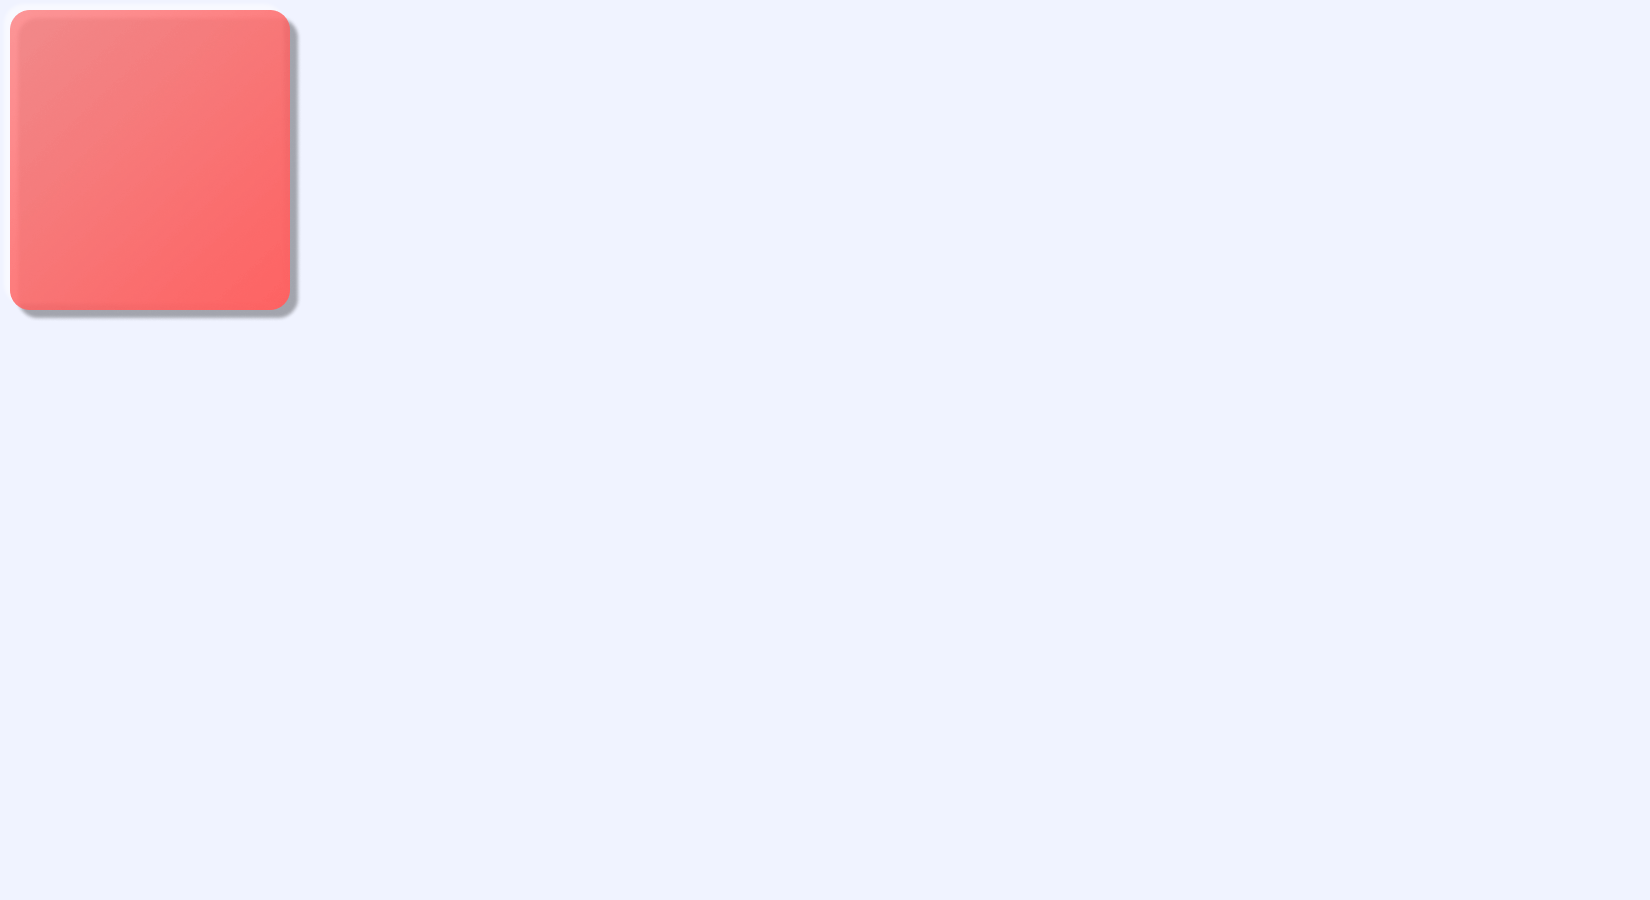
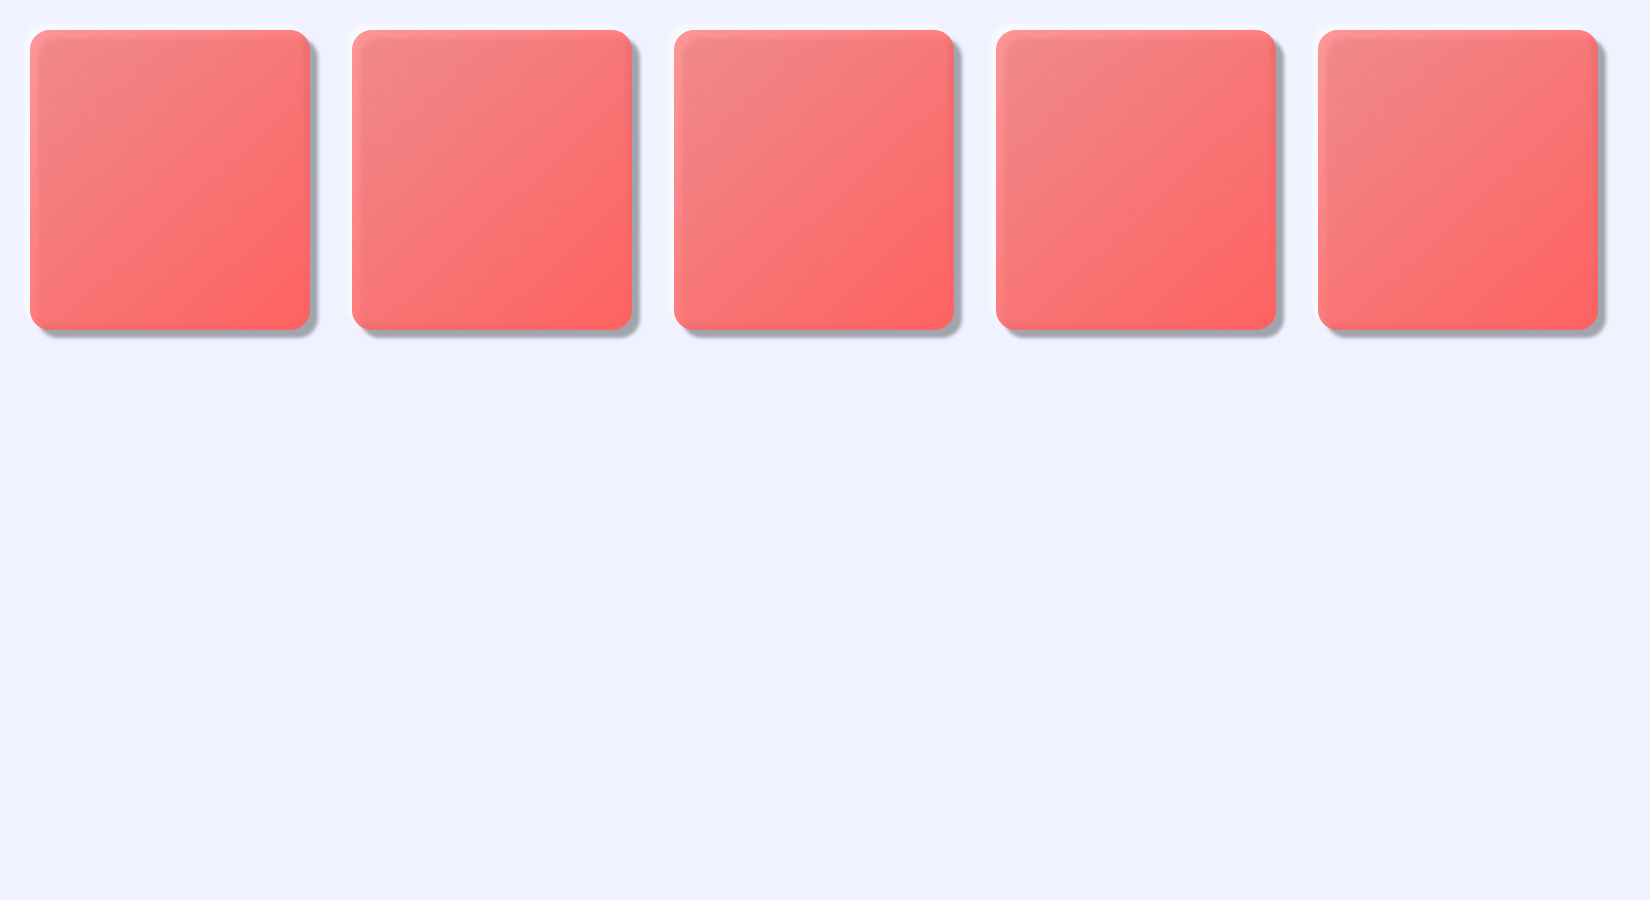
feat: red_cardの配置

Changed region(s): [[0.0, 0.0, 0.9891, 0.4044]]

diff --git a/valo_generator.py b/valo_generator.py
@@ -5,29 +5,30 @@ class ValoGenerator:
     def __init__(self):
         self.base_height = 900
         self.base_width = 1650
+        self.card_height = 0
+        self.card_width = 0
 
     def gen_base(self):
         blank = cv2.imread("assets/blank.png")
         # blank = np.zeros((self.base_height, self.base_width, 4))
         # blank += [236, 240, 243, 255][::-1]
         print(blank.shape)
-        blank = self.paste_red(blank)
 
+        for i in range(5):
+            blank = self.paste_red(blank, i*(self.card_width+20))
+        
         cv2.imwrite("blank.png", blank)
 
-    def paste_red(self, base):
+    def paste_red(self, base, x):
         red = cv2.imread("assets/redCard.png", -1)
 
         h, w = red.shape[:2]
+        self.card_height = h
+        self.card_width = w
 
-        # mask = red[:, :, 3]
-        # mask = cv2.cvtColor(mask, cv2.COLOR_GRAY2BGR)
-        # mask = mask / 255
+        print(h, w)
 
-        #red = red[:, :, 3]
-        #base[0:w, 0:h, :] = red
-
-        base[0:h, 0:w] = base[0:h, 0:w] * (1 - red[:, :, 3:] / 255) + \
+        base[20:h+20, x+20:x+w+20] = base[20:h+20, x+20:x+w+20] * (1 - red[:, :, 3:] / 255) + \
             red[:, :, :3] * (red[:, :, 3:] / 255)
 
         return base
